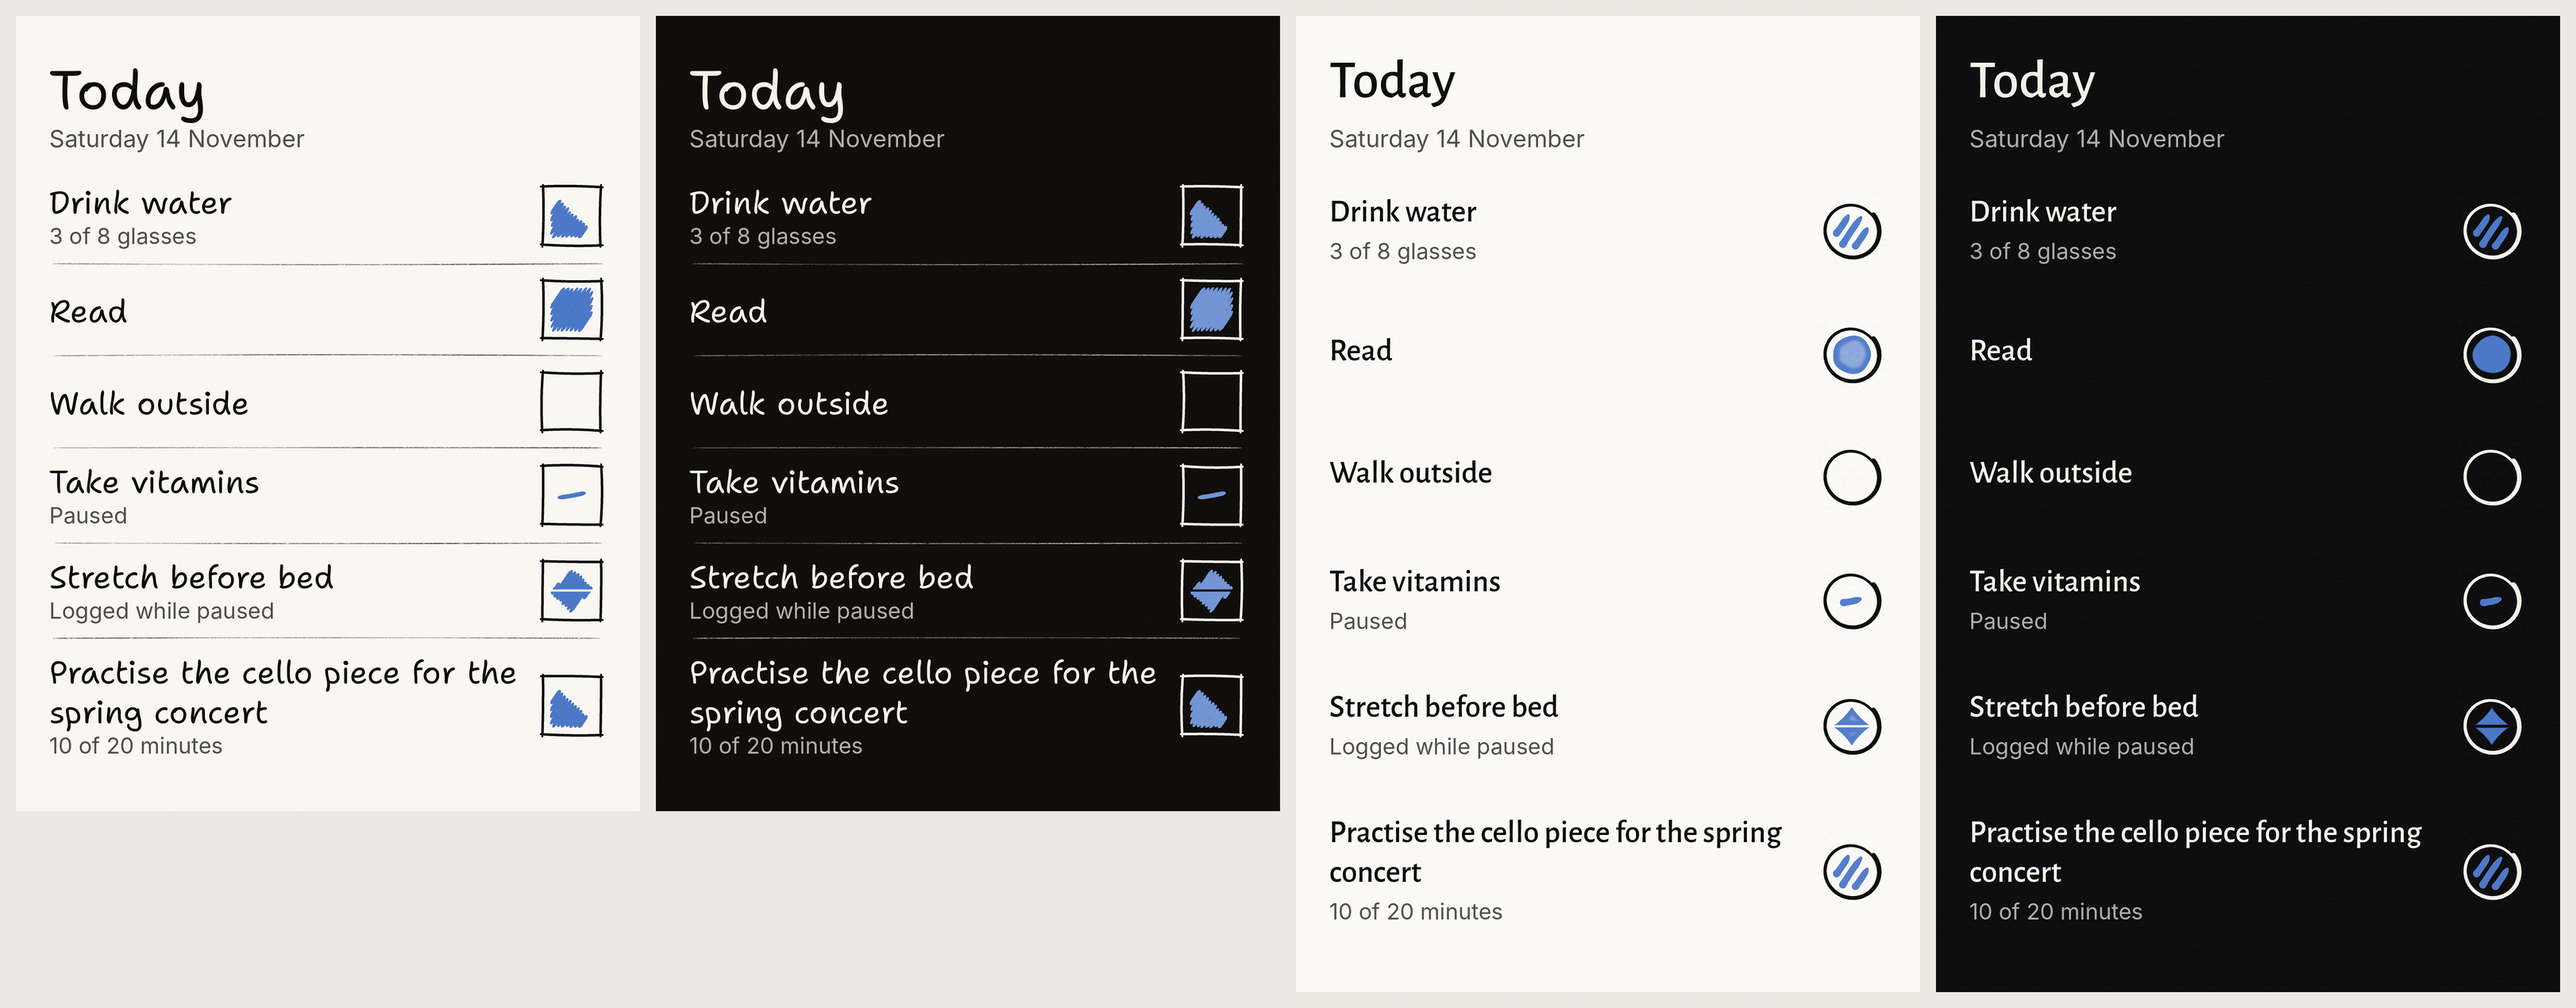
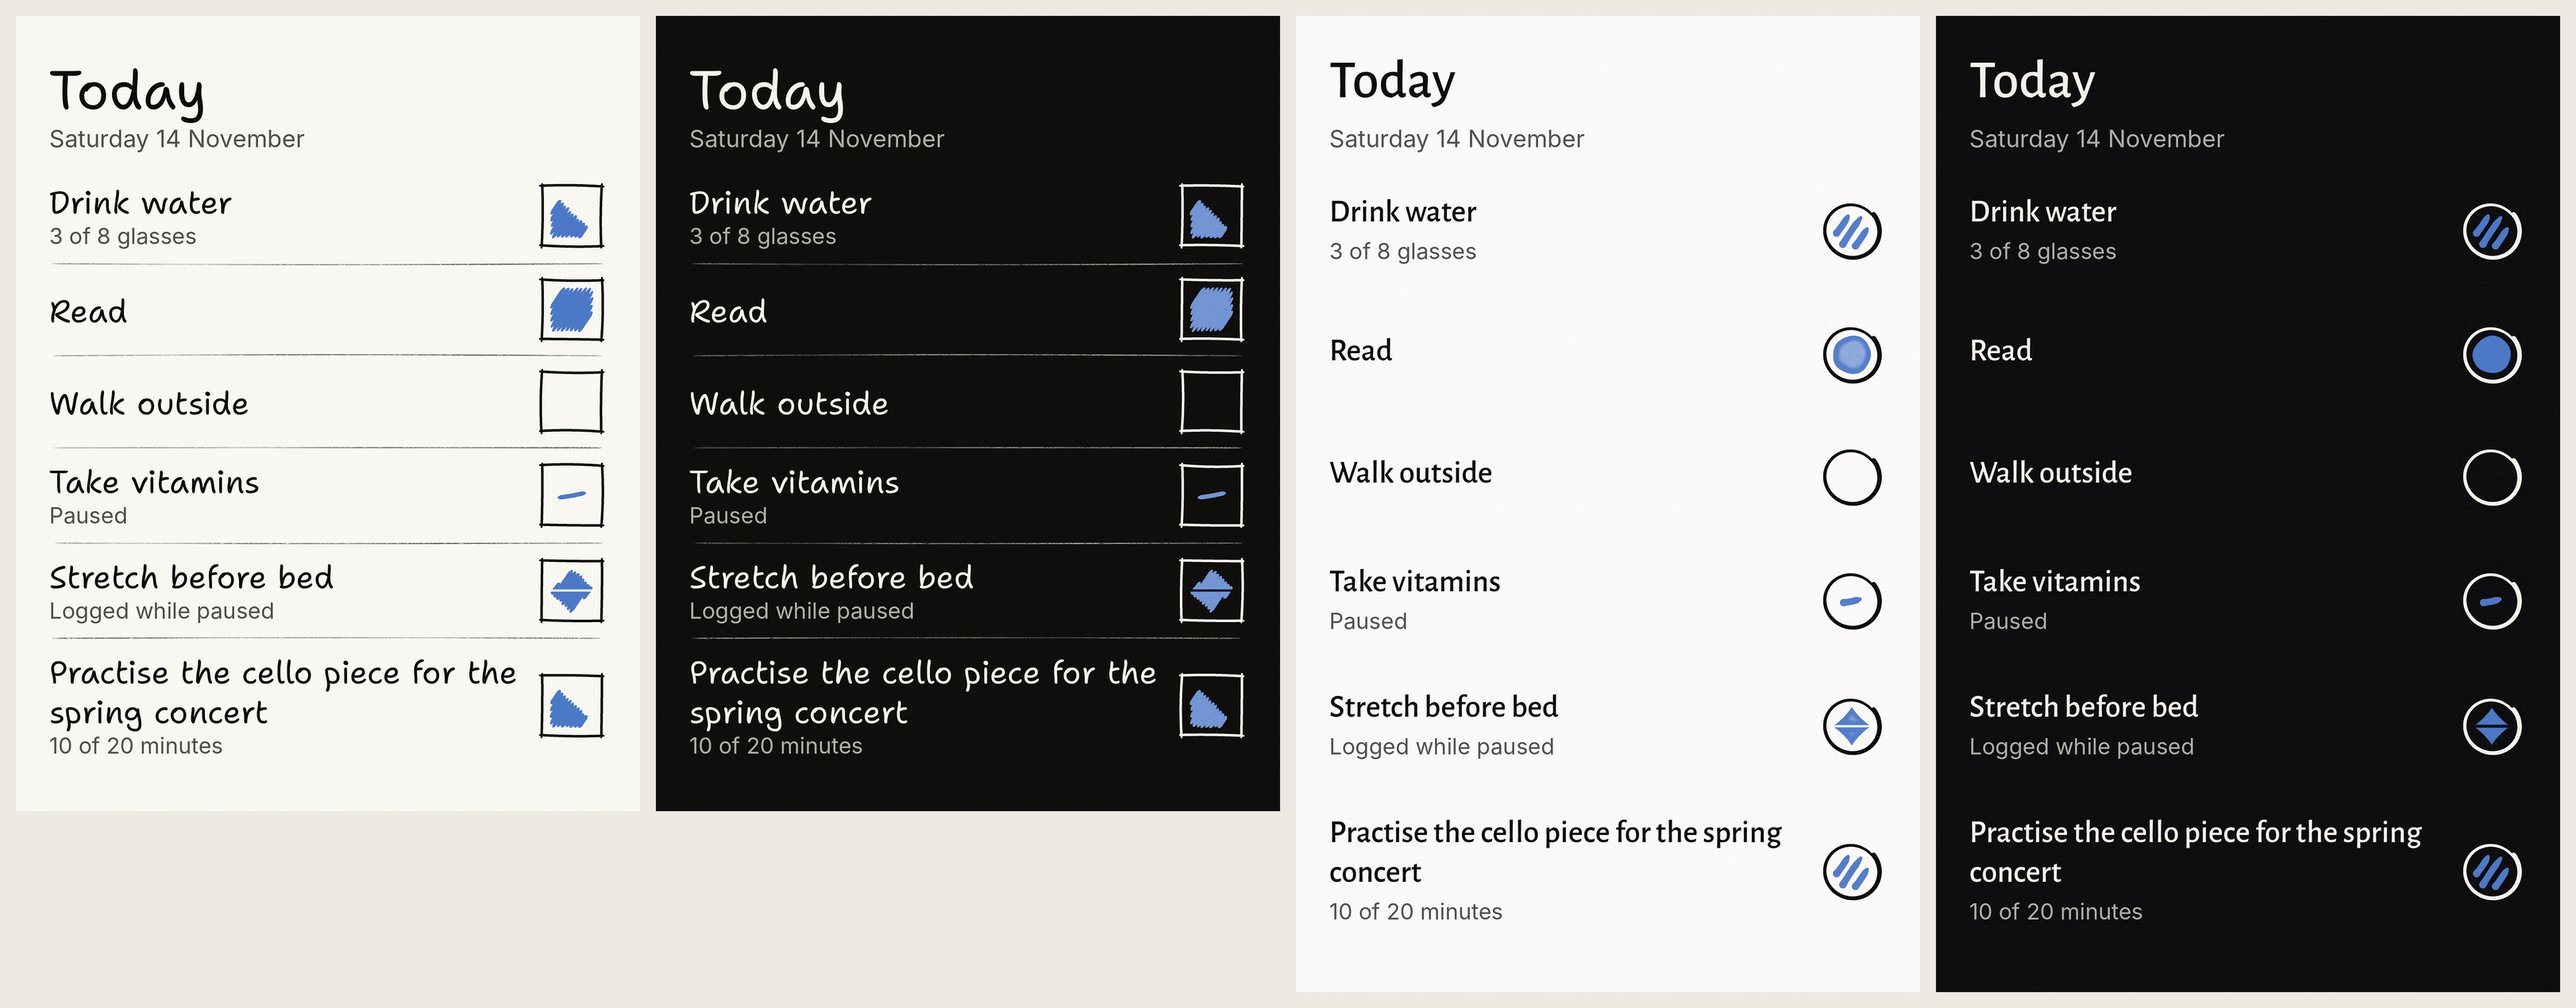
Step 3 drawing reviewed: record what passed, what is owed and the gates
Claude-Session: https://claude.ai/code/session_012NdevCAvT4U8qS7nMJ64YM

diff --git a/tools/marks/full_marks.py b/tools/marks/full_marks.py
@@ -117,7 +117,7 @@ def pencil(state):
     return np.zeros((N, N)), np.zeros((N, N))
 
 def pencil_today():                                         # four strokes whose ends cross and overshoot each corner by 1 point
-    q = H + 6.5; m = np.zeros((N, N))      # 3 points clear of the mark, stroke ends and bow included
+    q = H + 7; m = np.zeros((N, N))      # 3 points clear of the mark, stroke ends and bow included
     for x0, y0, x1, y1 in [(-q - 1, -q, q + 1, -q + 0.5), (q, -q - 1, q - 0.4, q + 1), (q + 1, q, -q - 1, q - 0.5), (-q, q + 1, -q + 0.4, -q - 1)]:
         m = np.maximum(m, mask(lambda d: stamp(d, bowed(x0, y0, x1, y1, (rng.random() - 0.5) * 1.6), taper(1.5, 0.75, 0.06))))
     return m
@@ -174,7 +174,7 @@ def water(state, ink=False):
     return np.zeros((N, N)), np.zeros((N, N), bool)
 
 def water_today():                                          # one brushed ring: pooled where it starts, thin where it lifts, gap of 1 point at most
-    r = H + 5.2; n = 120; gap = 1.0 / r; start = -0.7
+    r = H + 5.4; n = 120; gap = 1.0 / r; start = -0.7
     def at(i): a = start + gap + (2 * math.pi - gap) * i / n; rr = r + 0.3 * math.sin(a * 2 + 0.6) - 0.9 * (i / n); return rr * math.cos(a), rr * math.sin(a)   # the end lands just inside the start
     def width(i): t = i / n; return max(1.5, 3.0 - 1.5 * t ** 0.7)       # 3 points where it pools at the start, thinning all the way round to 1.5 where it lifts
     return mask(lambda d: [stamp(d, [at(i), at(i + 0.5), at(i + 1)], (lambda t, w=width(i): w), 4) for i in range(n)])

diff --git a/docs/spec-m4.md b/docs/spec-m4.md
@@ -153,3 +153,20 @@ Both reviews failed the first draft on 16 November 2026 and passed the second wi
 **Plain text is not a setting.** The product owner would not add a flag. It becomes a gate in step 5: twelve habit names at 17 points are shown to the tired user and neurodiversity lenses. If the hand font fails, habit names use SF in that style, and only headings keep the display font.
 
 **To remove from `docs/spec.md` when this file merges.** The line that says Pencil uses a hand circle in calendars. A circle would match Watercolor's ring.
+
+### Step 3 drawing: reviewed, 16 November 2026
+
+`docs/mockups/png/m4-today-rows.png`, drawn by `tools/marks/today_rows.py`. Six Today rows in Pencil and Watercolor, on Paper and Ink. Senior designer and product owner, and accessibility and low vision, each took two rounds.
+
+Passed: each style can be told from one row. The Watercolor ring reads as one brush stroke, 1.61 to 3.12 points wide, closed, in the same place on every row. The control measures 40.2 points in Pencil and 36.5 in Watercolor, inside 44. Part done against done, and empty against paused, differ by shape. Secondary text is 7.5 on Paper and 8.4 on Ink or better. Pencil lines read as pencil. A name that wraps to two lines keeps 34 points between rows against 6 inside one.
+
+Changed after review: the Watercolor paused dab is shorter and tilted 12 degrees, because a centred straight dab in a circle read as the system's delete button.
+
+Owed, round two spent: mark clearance measured 2.5 to 2.97 points against 3. The lens's fix is applied (`q = H + 7`, `r = H + 5.4`). No lens has measured it since.
+
+Not adopted: "the diamond looks smaller than 24 points". It is 24 points tip to tip with a 1.25 point cut. A diamond covers half the area of a square that size.
+
+Gates before the milestone 4 build:
+- Human factors sees the Watercolor paused dab and the Watercolor diamond inside the ring. Test: shown one row for a glance, does either read as a delete button or as a stepper with two arrows. If it fails, the mark changes before it is built.
+- A three-line name and the largest text size are checked on the in-app screens. If rows stop separating in Watercolor, the row gap grows with the text size.
+- Whether Pen and ink drops the plus in a counted control: human factors and first-day user.
